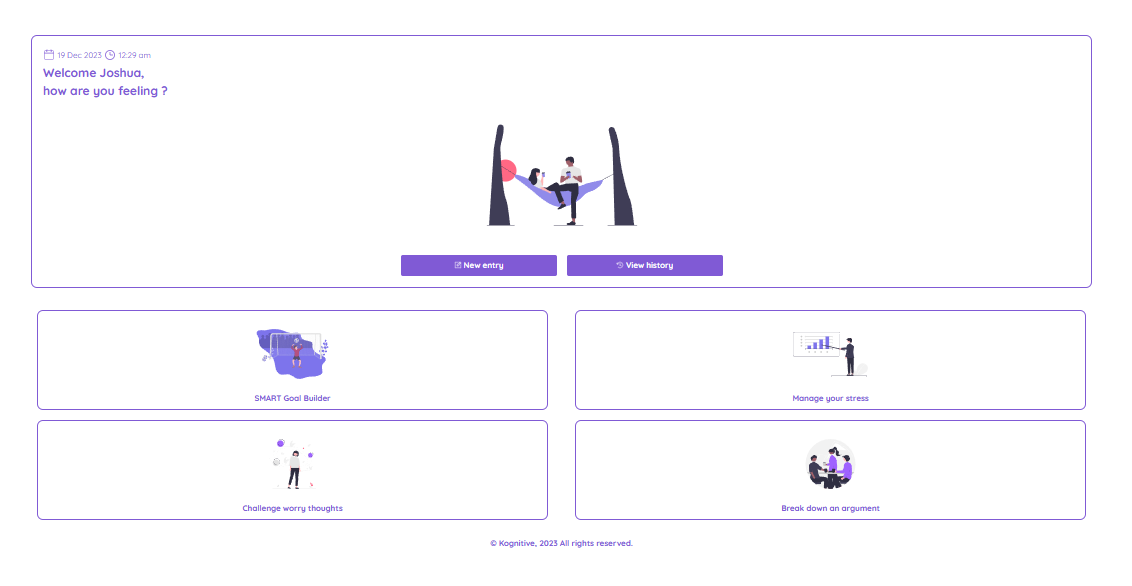
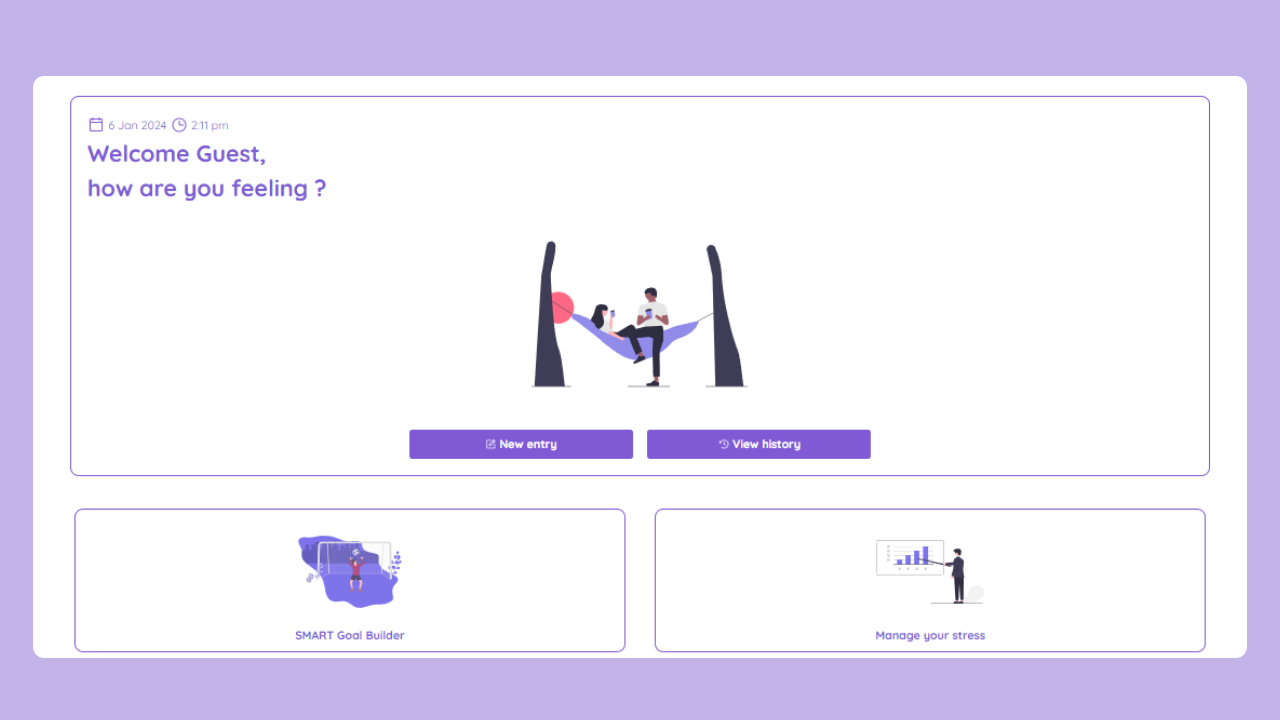
images changed

diff --git a/components/projects.tsx b/components/projects.tsx
@@ -25,7 +25,7 @@ const Projects = () => {
         <>
           <ProjectSection
             projectDesp="A cognitive behavioral therapy journaling app, for challenging negative thoughts and emotions. With froms for anger mangement, stress, goal building. Comes with PWA support."
-            projectImage="/kognitive/test.png"
+            projectImage="/images/kognitive.png"
             projectlink="/project/kognitive"
             projectName="Kognitive"
             tags={["React", "Typescript", "Supabase", "ChakraUi"]}

diff --git a/components/projectCard.tsx b/components/projectCard.tsx
@@ -29,8 +29,10 @@ export default function ProjectCard({
         >
           <Image
             className="w-full h-28 md:h-48  lg:h-56  lg:w-full"
-            width={1000}
-            height={1000}
+            width={1280}
+            
+            height={720}
+            priority={true}
             src={imageUrl}
             alt="project"
           />
